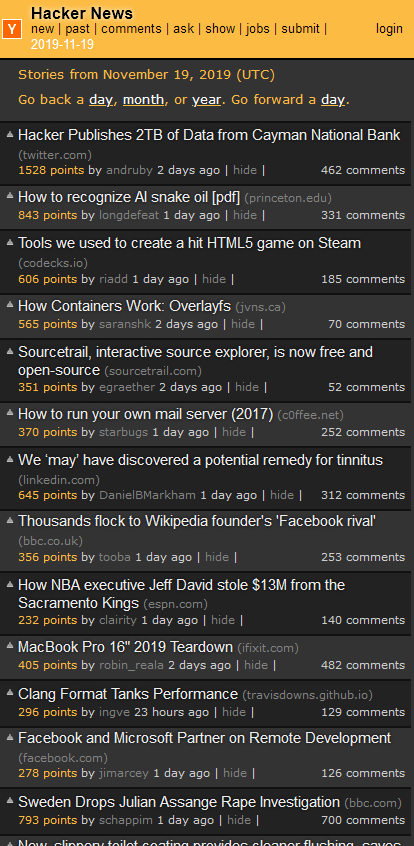
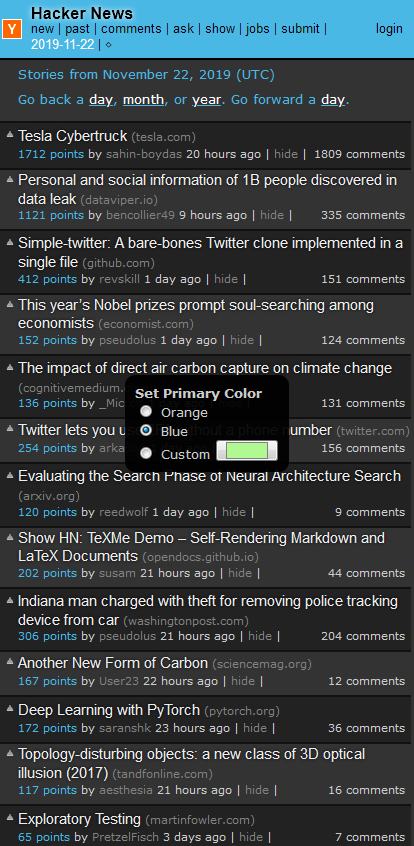
Update readme and screenshot

diff --git a/README.md b/README.md
@@ -1,11 +1,18 @@
 # Modern Night Theme for HackerNews
-A modern night theme browser extension for HackerNews. Optimized for Mobile and Desktop. Originally made for a mobile replacement because native apps had some issue or another. The biggest issue this extension resolves (by simply being a browser extension for Firefox) is tab support, which is useful when wanting to come back to a page or comment section later. 
 
-![](screenshots/mobile-1.png) ![](screenshots/mobile-2.png) 
+A modern night theme browser extension for HackerNews. Optimized for Mobile and Desktop. Originally made for a mobile replacement because native apps had some issue or another. The biggest issue this extension resolves (by simply being a browser extension for Firefox) is tab support, which is useful when wanting to come back to a page or comment section later without losing context.
+
+## Additional Features
+
+- Theming (choose a primary color)
+- Sticky (always show) the post title and info on top
+
+![](screenshots/mobile-1.png) ![](screenshots/mobile-2.png)
 
 ![](screenshots/mobile-3.png) ![](screenshots/mobile-4.png)
 
 ![](screenshots/desktop.png)
 
 # License
+
 MIT
